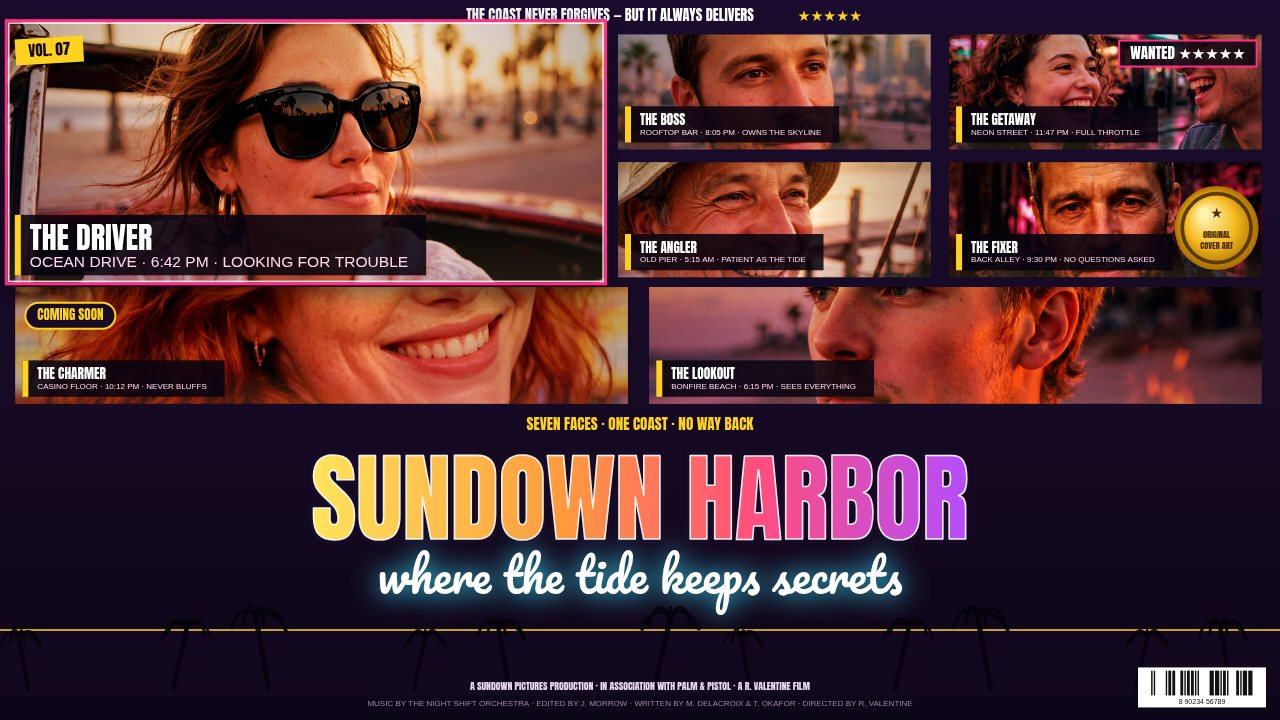
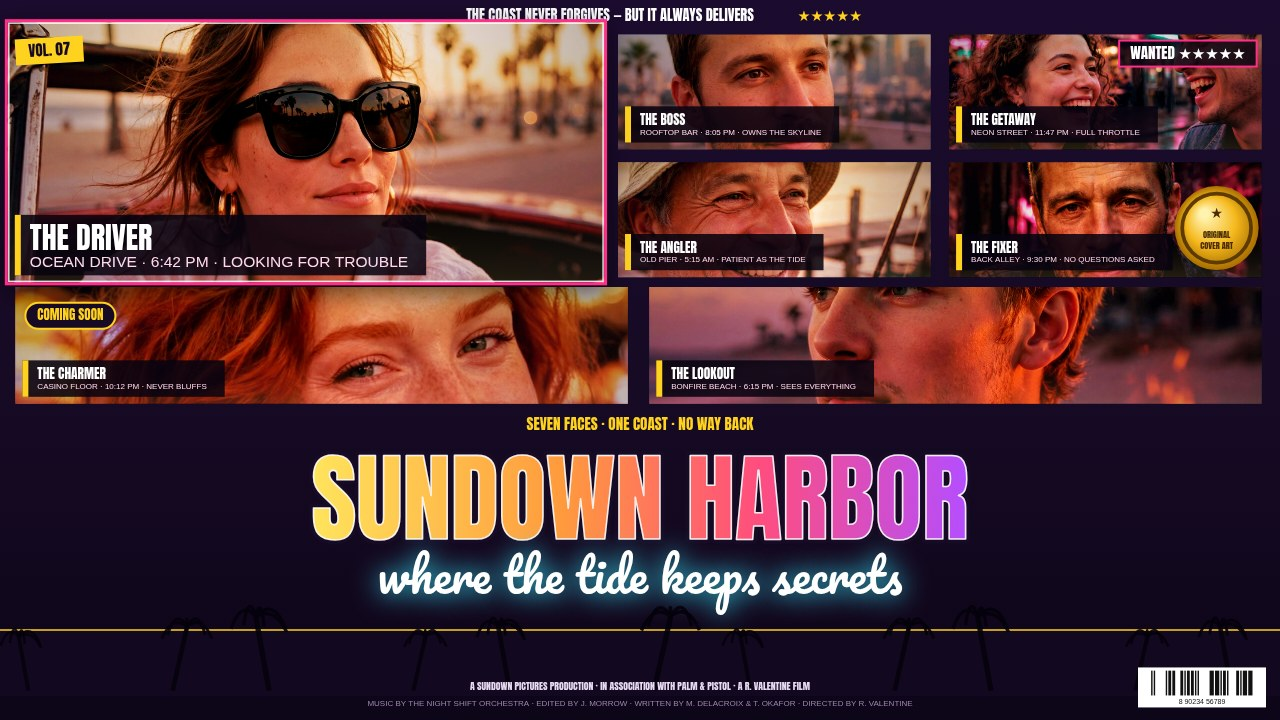
gta6-cover-art-01 v2 fix: charmer eyes visible in shot 1, full editor in shot 2
- shots.js cover1 scene: charmer fy 0.42 -> 0.29 (scoped to cover1 only,
  cover3/cover4 framing untouched); wide hero-mosaic strip now centres on
  her eyes instead of nose/mouth
- screenshots/1-cover.jpg regenerated (CDP file:// ?shot=cover1)
- screenshots/2-editor.jpg regenerated at page zoom 0.7 so sections 1-5
  incl. Halftone/Grain sliders and 'Export all three' all fit in 720px
- screenshots 3 & 4 untouched; dossier sha256 e93e7b28... (2 identical runs)

Changed region(s): [[0.0, 0.3972, 0.5, 0.5806]]

diff --git a/app/src/shots.js b/app/src/shots.js
@@ -7,7 +7,12 @@ const params = new URLSearchParams(location.search);
 const shot = params.get('shot');
 if (shot) {
   const scenes = {
-    cover1: { w: 1280, h: 720, layout: 'hero-mosaic', grade: 'sunset' },
+    // cover1: the wide hero-mosaic strip (1280x720) crops the Charmer photo
+    // to a ~5:1 slice; at the default fy 0.42 the slice sits on her
+    // nose/mouth and her eyes fall out of frame. fy 0.29 centres the slice
+    // on her eyes (photo eyes ~0.28-0.30). Scoped to this scene only —
+    // cover3/cover4 keep the default framing that already shows her face.
+    cover1: { w: 1280, h: 720, layout: 'hero-mosaic', grade: 'sunset', panels: { charmer: { fy: 0.29 } } },
     cover3: { w: 1024, h: 1280, layout: 'hero-mosaic', grade: 'neon' },
     cover4: { w: 1080, h: 1080, layout: 'six-grid', grade: 'golden' },
   };
@@ -24,6 +29,12 @@ if (shot) {
     const state = defaultState();
     state.layout = scene.layout;
     state.grade = scene.grade;
+    if (scene.panels) {
+      for (const [id, over] of Object.entries(scene.panels)) {
+        const p = state.panels.find((q) => q.id === id);
+        if (p) Object.assign(p, over);
+      }
+    }
     const run = async () => {
       try {
         await document.fonts.load('80px Anton');
